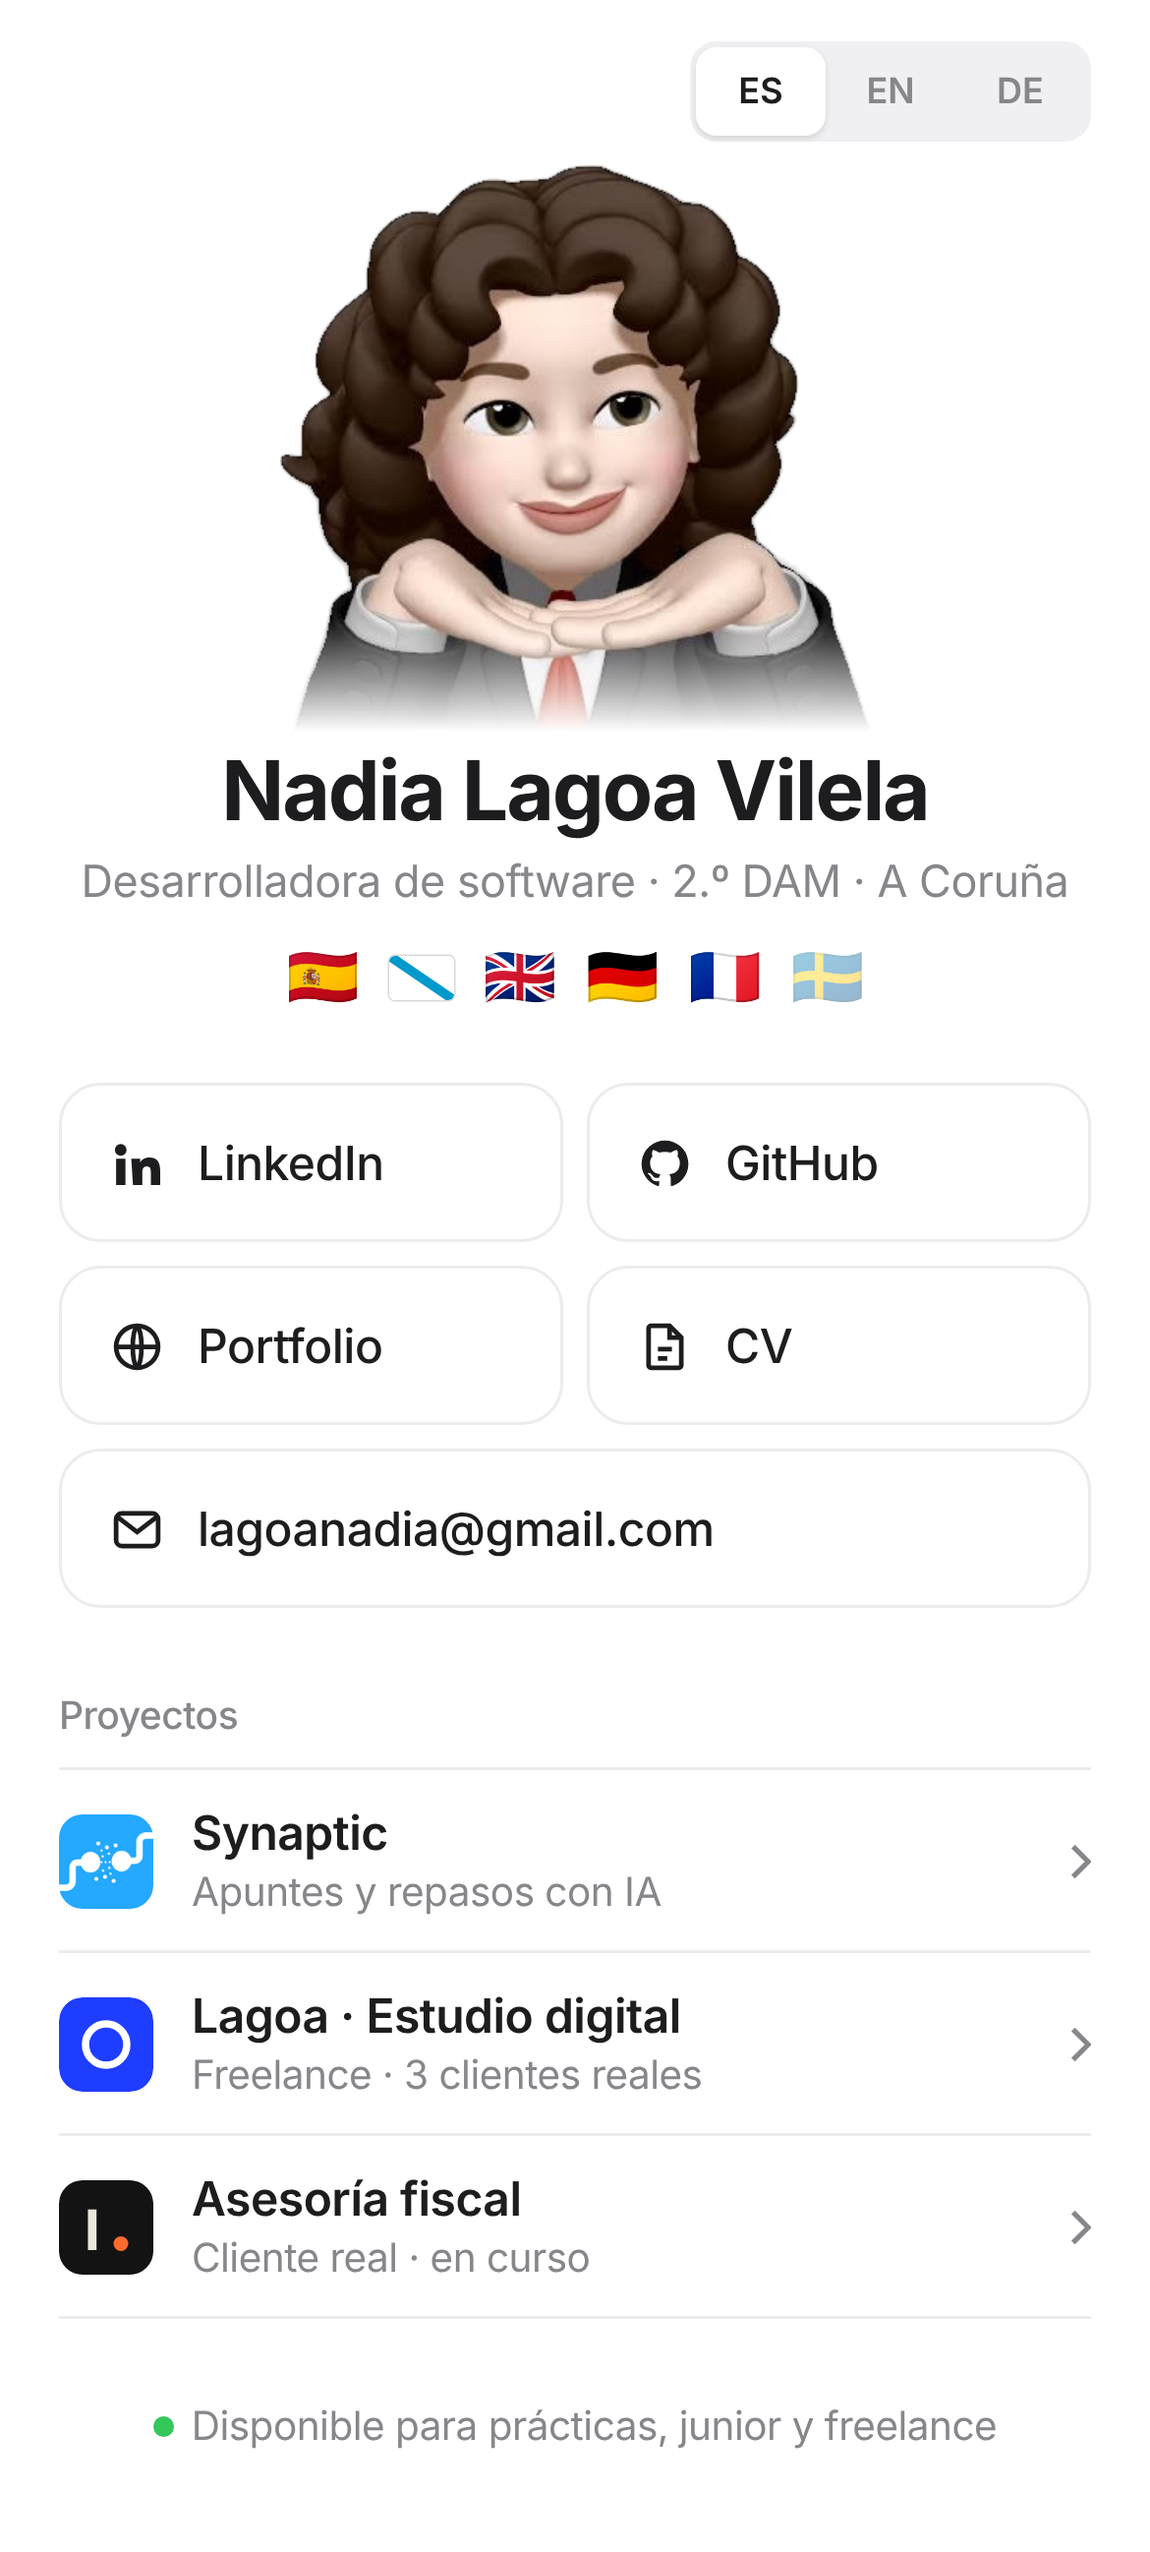
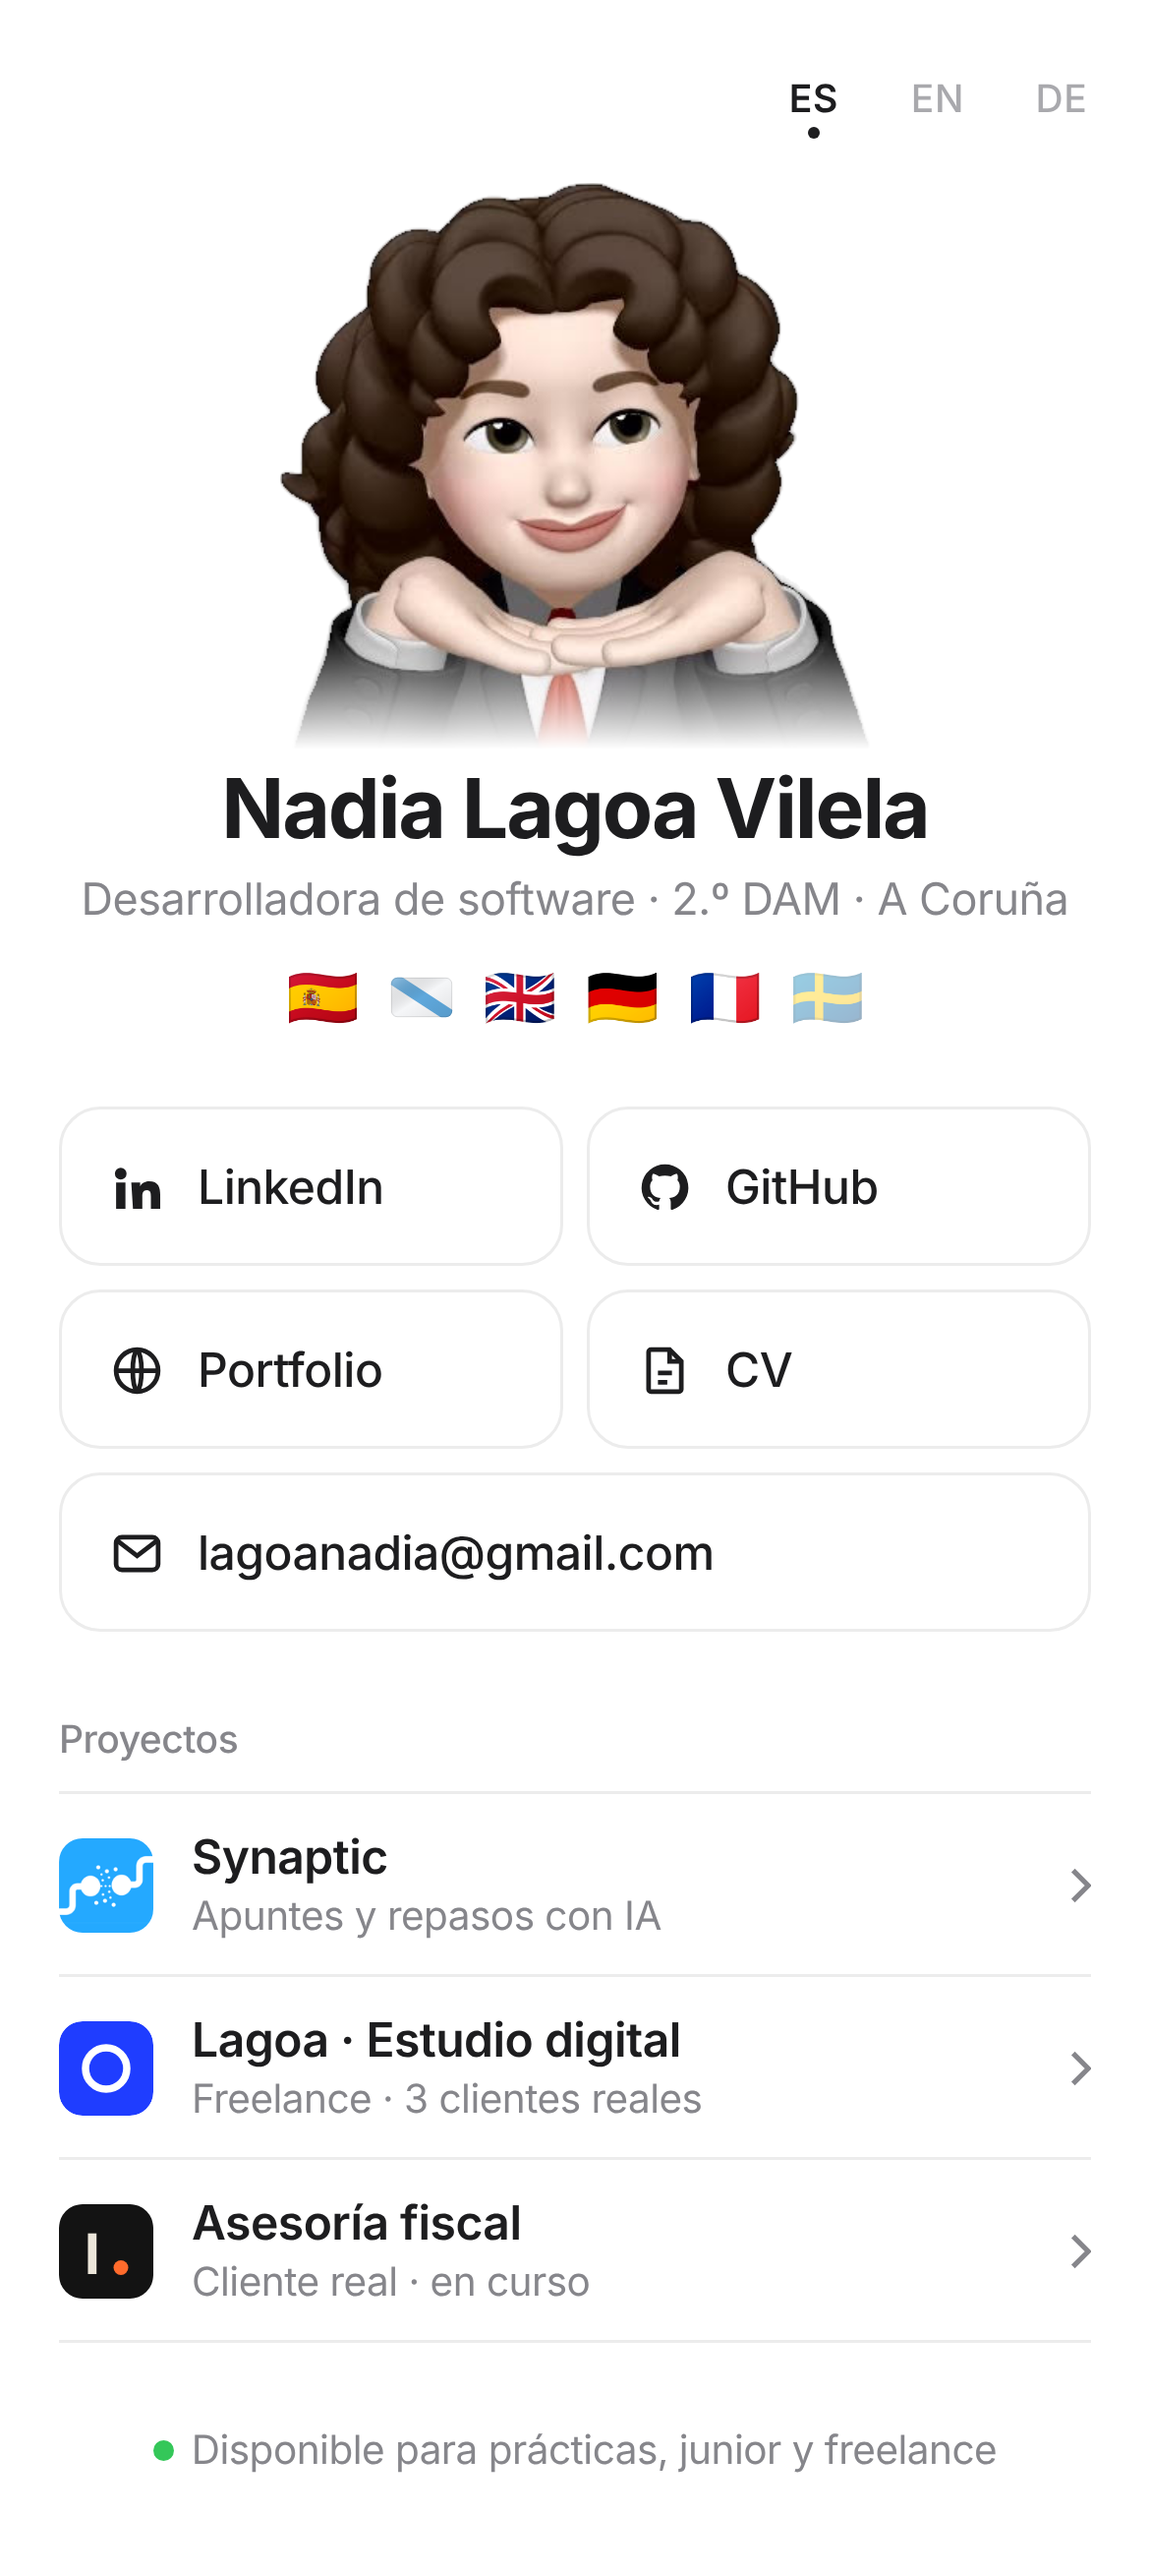
Selector de idioma minimalista y bandera gallega estilo emoji
Claude-Session: https://claude.ai/code/session_012gZcx71BmCNMhoCCkeSb98

diff --git a/index.html b/index.html
@@ -31,9 +31,10 @@ a{color:inherit;text-decoration:none}
 svg{width:19px;height:19px;flex:none}
 
 .bar{display:flex;justify-content:flex-end}
-.seg{display:flex;background:var(--seg);border-radius:9px;padding:2px;font-weight:600;font-size:12px}
-.seg button{font:inherit;color:var(--muted);background:none;border:0;min-width:44px;min-height:30px;border-radius:7px;cursor:pointer}
-.seg button[aria-pressed="true"]{background:var(--seg-on);color:var(--text);box-shadow:0 1px 2px rgba(0,0,0,.12)}
+.seg{display:flex;gap:2px;font-size:13px;font-weight:500;margin-right:-10px}
+.seg button{font:inherit;letter-spacing:.02em;color:var(--muted);opacity:.7;background:none;border:0;min-width:40px;min-height:40px;cursor:pointer;position:relative;transition:color .15s,opacity .15s}
+.seg button[aria-pressed="true"]{color:var(--text);opacity:1;font-weight:600}
+.seg button[aria-pressed="true"]::after{content:"";position:absolute;left:50%;bottom:7px;width:4px;height:4px;margin-left:-2px;border-radius:50%;background:currentColor}
 
 header{text-align:center}
 .memoji{width:200px;margin:8px auto 0}
@@ -42,7 +43,7 @@ h1{font:700 28px/1.15 -apple-system,BlinkMacSystemFont,"SF Pro Display","Segoe U
 .role{color:var(--muted);margin-top:4px;font-size:15px}
 .flags{display:flex;gap:10px;justify-content:center;margin-top:12px;list-style:none;font-size:20px;line-height:1}
 .flags li{display:flex;align-items:center}
-.flags svg{width:22px;height:15px;border-radius:2px;box-shadow:0 0 0 .5px rgba(0,0,0,.15)}
+.flags svg{width:1.1em;height:1.1em}
 .flags .learn{opacity:.4}
 
 .links{margin-top:26px;display:grid;gap:8px}
@@ -82,7 +83,7 @@ footer{margin-top:28px;text-align:center;color:var(--muted);font-size:13.5px}
     <p class="role" data-i18n="role">Desarrolladora de software · 2.º DAM · A Coruña</p>
     <ul class="flags" aria-label="Idiomas: español, gallego, inglés, alemán, francés; aprendiendo sueco" data-i18n-aria="langs">
       <li title="Español" aria-hidden="true">🇪🇸</li>
-      <li title="Galego" aria-hidden="true"><svg viewBox="0 0 22 15"><rect width="22" height="15" fill="#fff"/><path d="M0 0L22 15" stroke="#0099cc" stroke-width="3.2"/></svg></li>
+      <li title="Galego" aria-hidden="true"><svg viewBox="0 0 36 36"><defs><clipPath id="gl"><rect x="1" y="7" width="34" height="22" rx="3.5"/></clipPath><linearGradient id="glw" x1="0" x2="1" y1="0" y2="1"><stop offset="0" stop-color="#fff" stop-opacity=".35"/><stop offset=".5" stop-color="#000" stop-opacity="0"/><stop offset="1" stop-color="#000" stop-opacity=".08"/></linearGradient></defs><g clip-path="url(#gl)"><rect x="1" y="7" width="34" height="22" fill="#f5f6f8"/><path d="M-2 5L38 31" stroke="#5fa8dc" stroke-width="7"/><rect x="1" y="7" width="34" height="22" fill="url(#glw)"/></g><rect x="1.25" y="7.25" width="33.5" height="21.5" rx="3.3" fill="none" stroke="#000" stroke-opacity=".12" stroke-width=".5"/></svg></li>
       <li title="English" aria-hidden="true">🇬🇧</li>
       <li title="Deutsch" aria-hidden="true">🇩🇪</li>
       <li title="Français" aria-hidden="true">🇫🇷</li>
